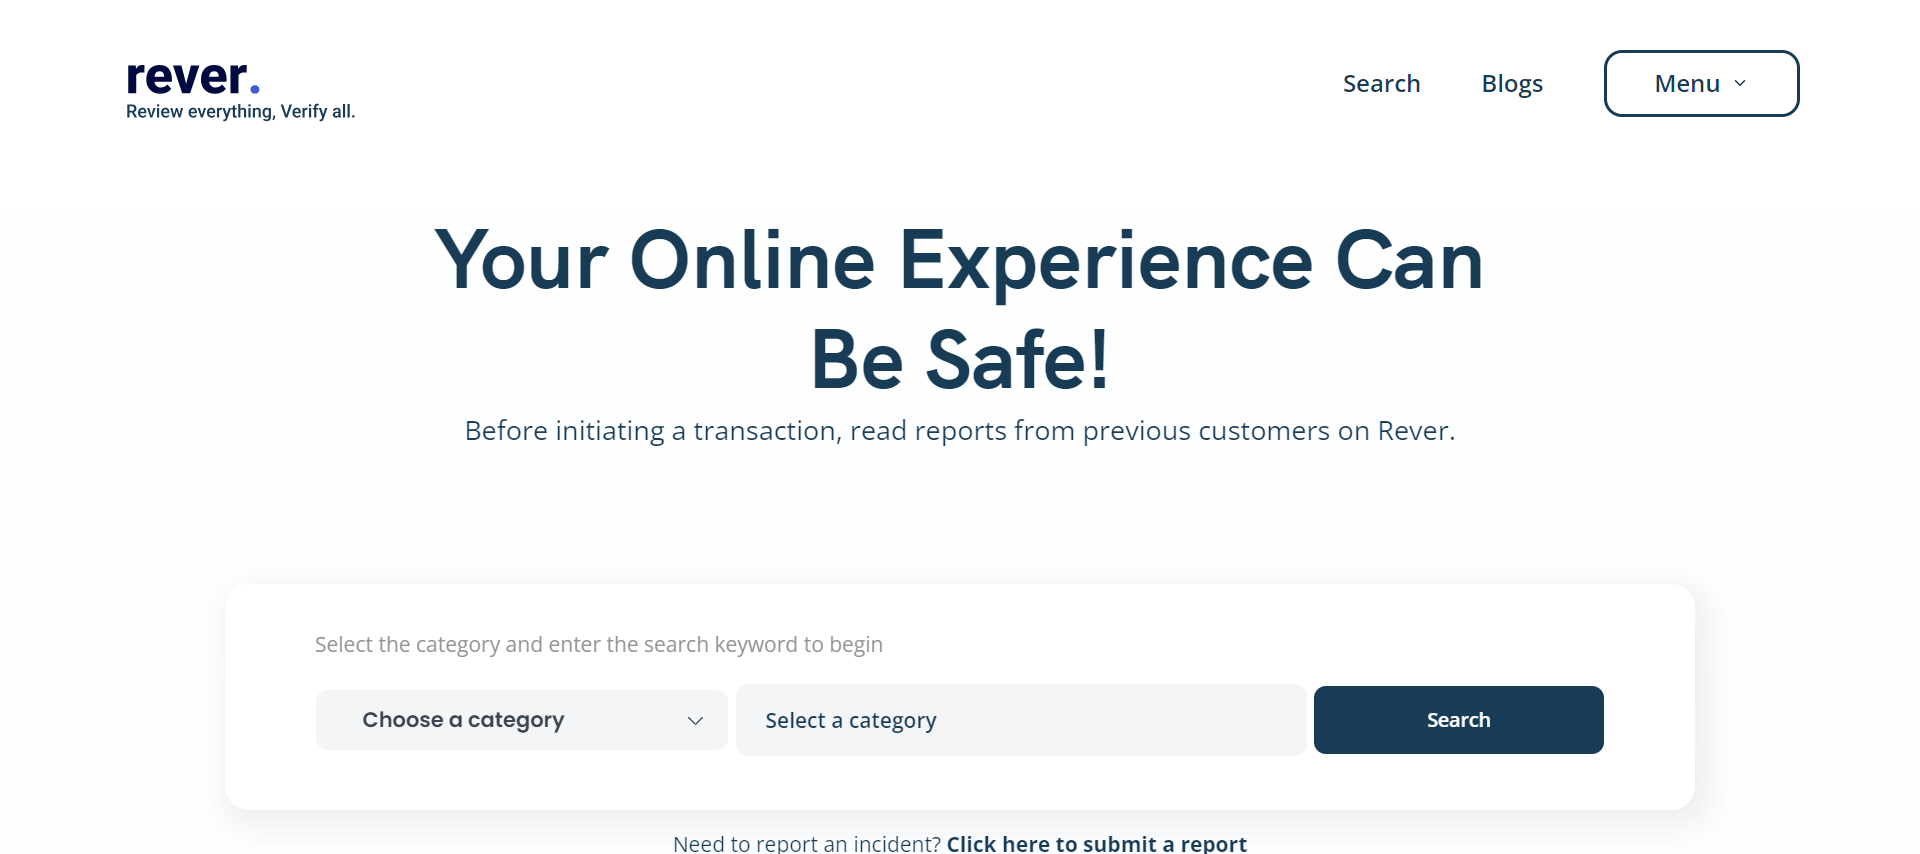
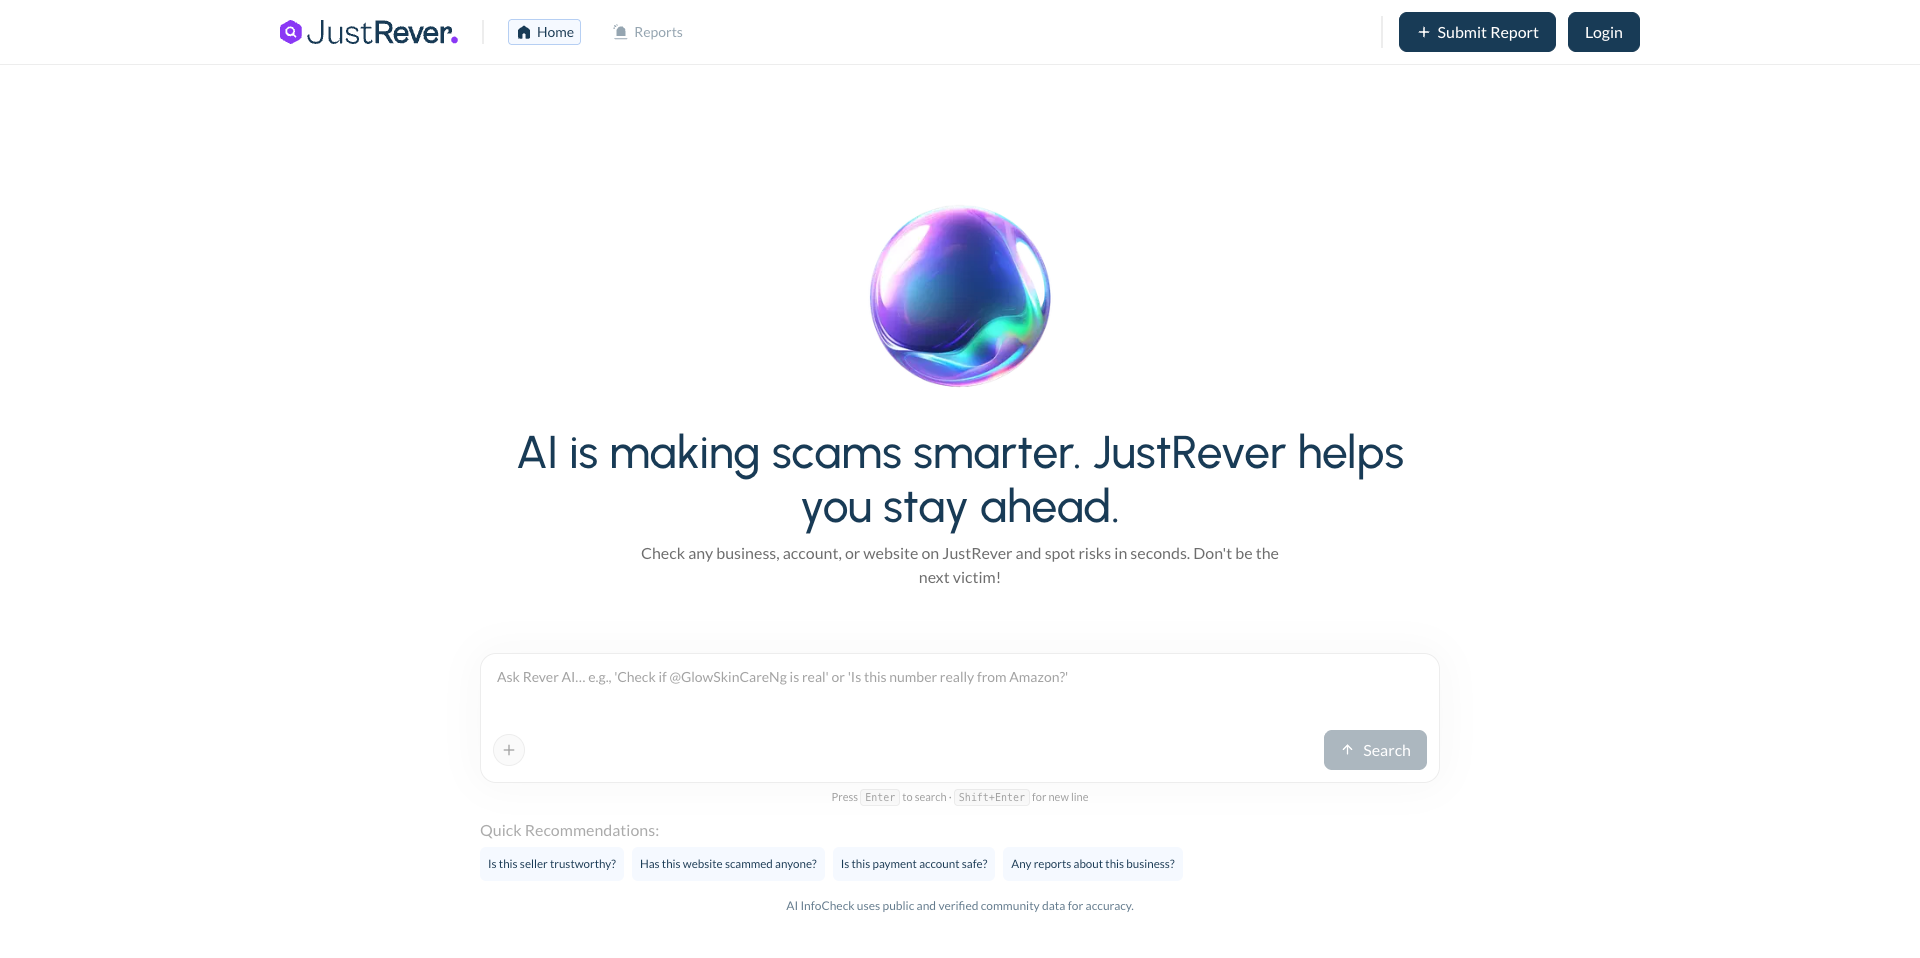
feat: add new project entries and update existing project assets in portfolio data

diff --git a/app/data/data.ts b/app/data/data.ts
@@ -13,6 +13,20 @@ const NavMenuItems = [
 
 const projects = [
   {
+    name: "Konga Search Service (KSS)",
+    url: "https://kss.konga.com/",
+    description:
+      "Internal search indexing platform built to replace Algolia and improve product discovery across Konga's ecommerce ecosystem. I led the frontend implementation, building a fast, responsive search experience with debounced queries, cached results, ranking visibility, and scalable UI patterns using React, TypeScript, and modern state management Impact: Reduced yearly third-party search subscription costs by $77,000 while improving ownership, flexibility, and control over the search experience.",
+    imgUrl: "/kss.png",
+  },
+  {
+    name: "Konga E-commerce platform",
+    url: "https://www.konga.com/",
+    description:
+      "Konga is a Nigerian ecommerce platform with hundreds of thousands of users and sellers.",
+    imgUrl: "/konga.png",
+  },
+  {
     name: "Paydeet",
     url: "https://www.paydeet.com/",
     description:
@@ -27,11 +41,18 @@ const projects = [
     imgUrl: "/rever.png",
   },
   {
-    name: "My Portfolio v1",
-    url: "/",
+    name: "Lifteller",
+    url: "https://www.lifteller.com/",
     description:
-      "Personal portfolio system exploring motion, typography, project presentation, and a flexible Next.js foundation.",
-    imgUrl: "/victory.png",
+      "Lifteller is a new social platform built with the mission of bringing compassion back to social networking. We believe in creating a safe, inclusive space where meaningful connections thrive, and where users can support one another.",
+    imgUrl: "/lifteller.png",
+  },
+  {
+    name: "Konga Radio",
+    url: "https://www.kongafm.com/",
+    description:
+      "Konga Radio is a digital radio platform built to deliver smooth online audio streaming and engaging media experiences. I worked on the frontend implementation using Next.js and SCSS, focusing on a clean interface, responsive layout, and a seamless listening experience across devices.",
+    imgUrl: "/konga-radio.png",
   },
 ];
 
